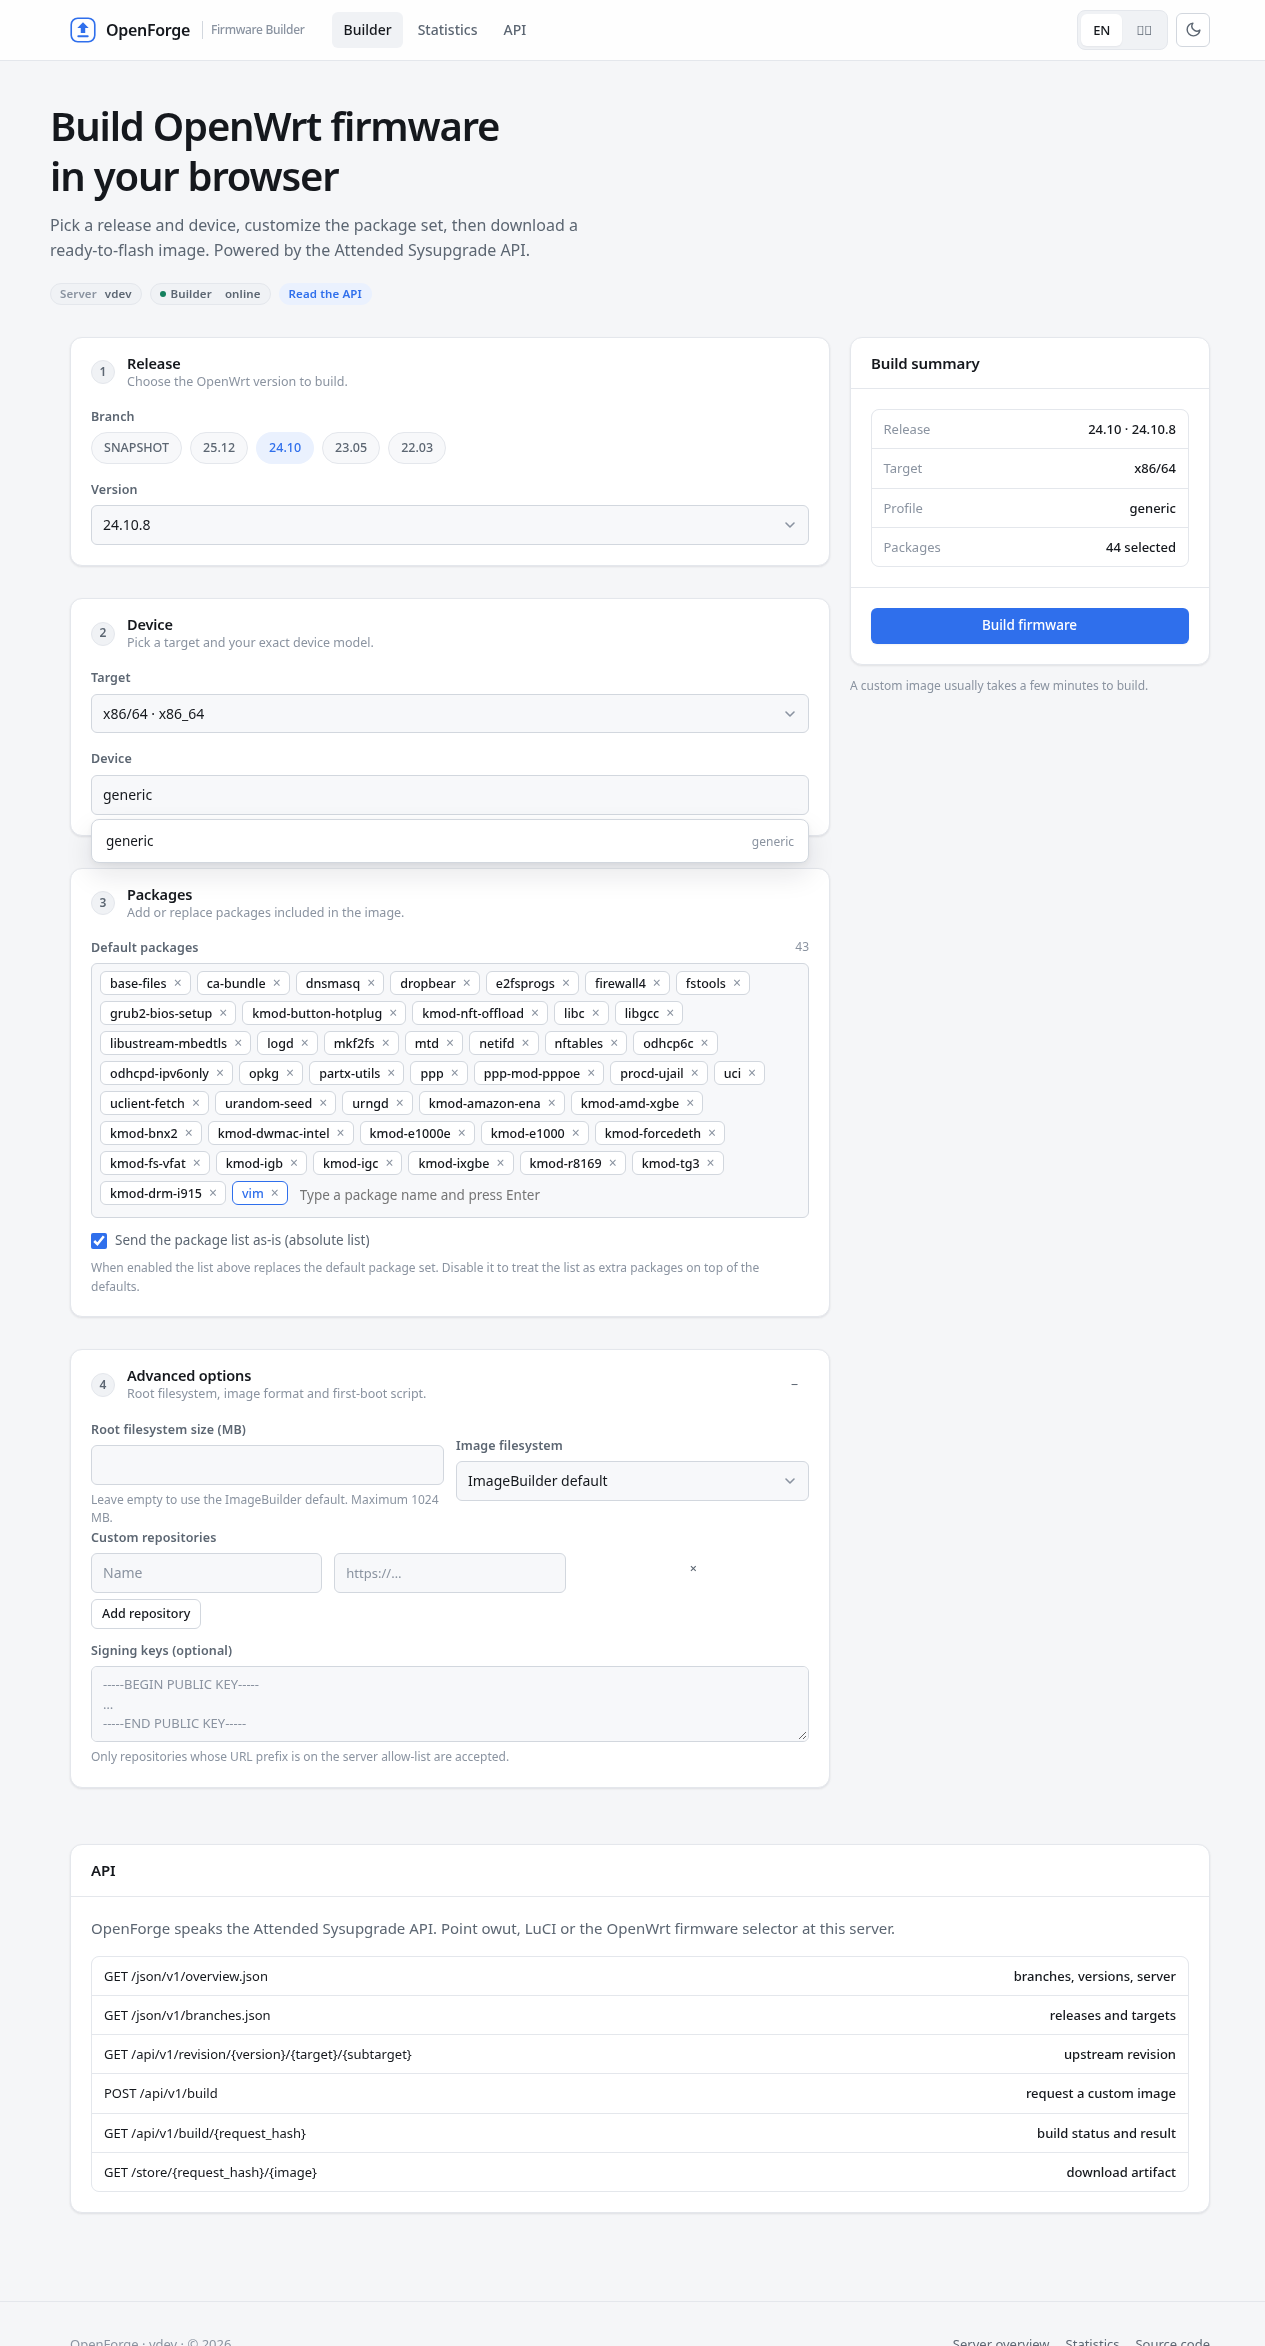
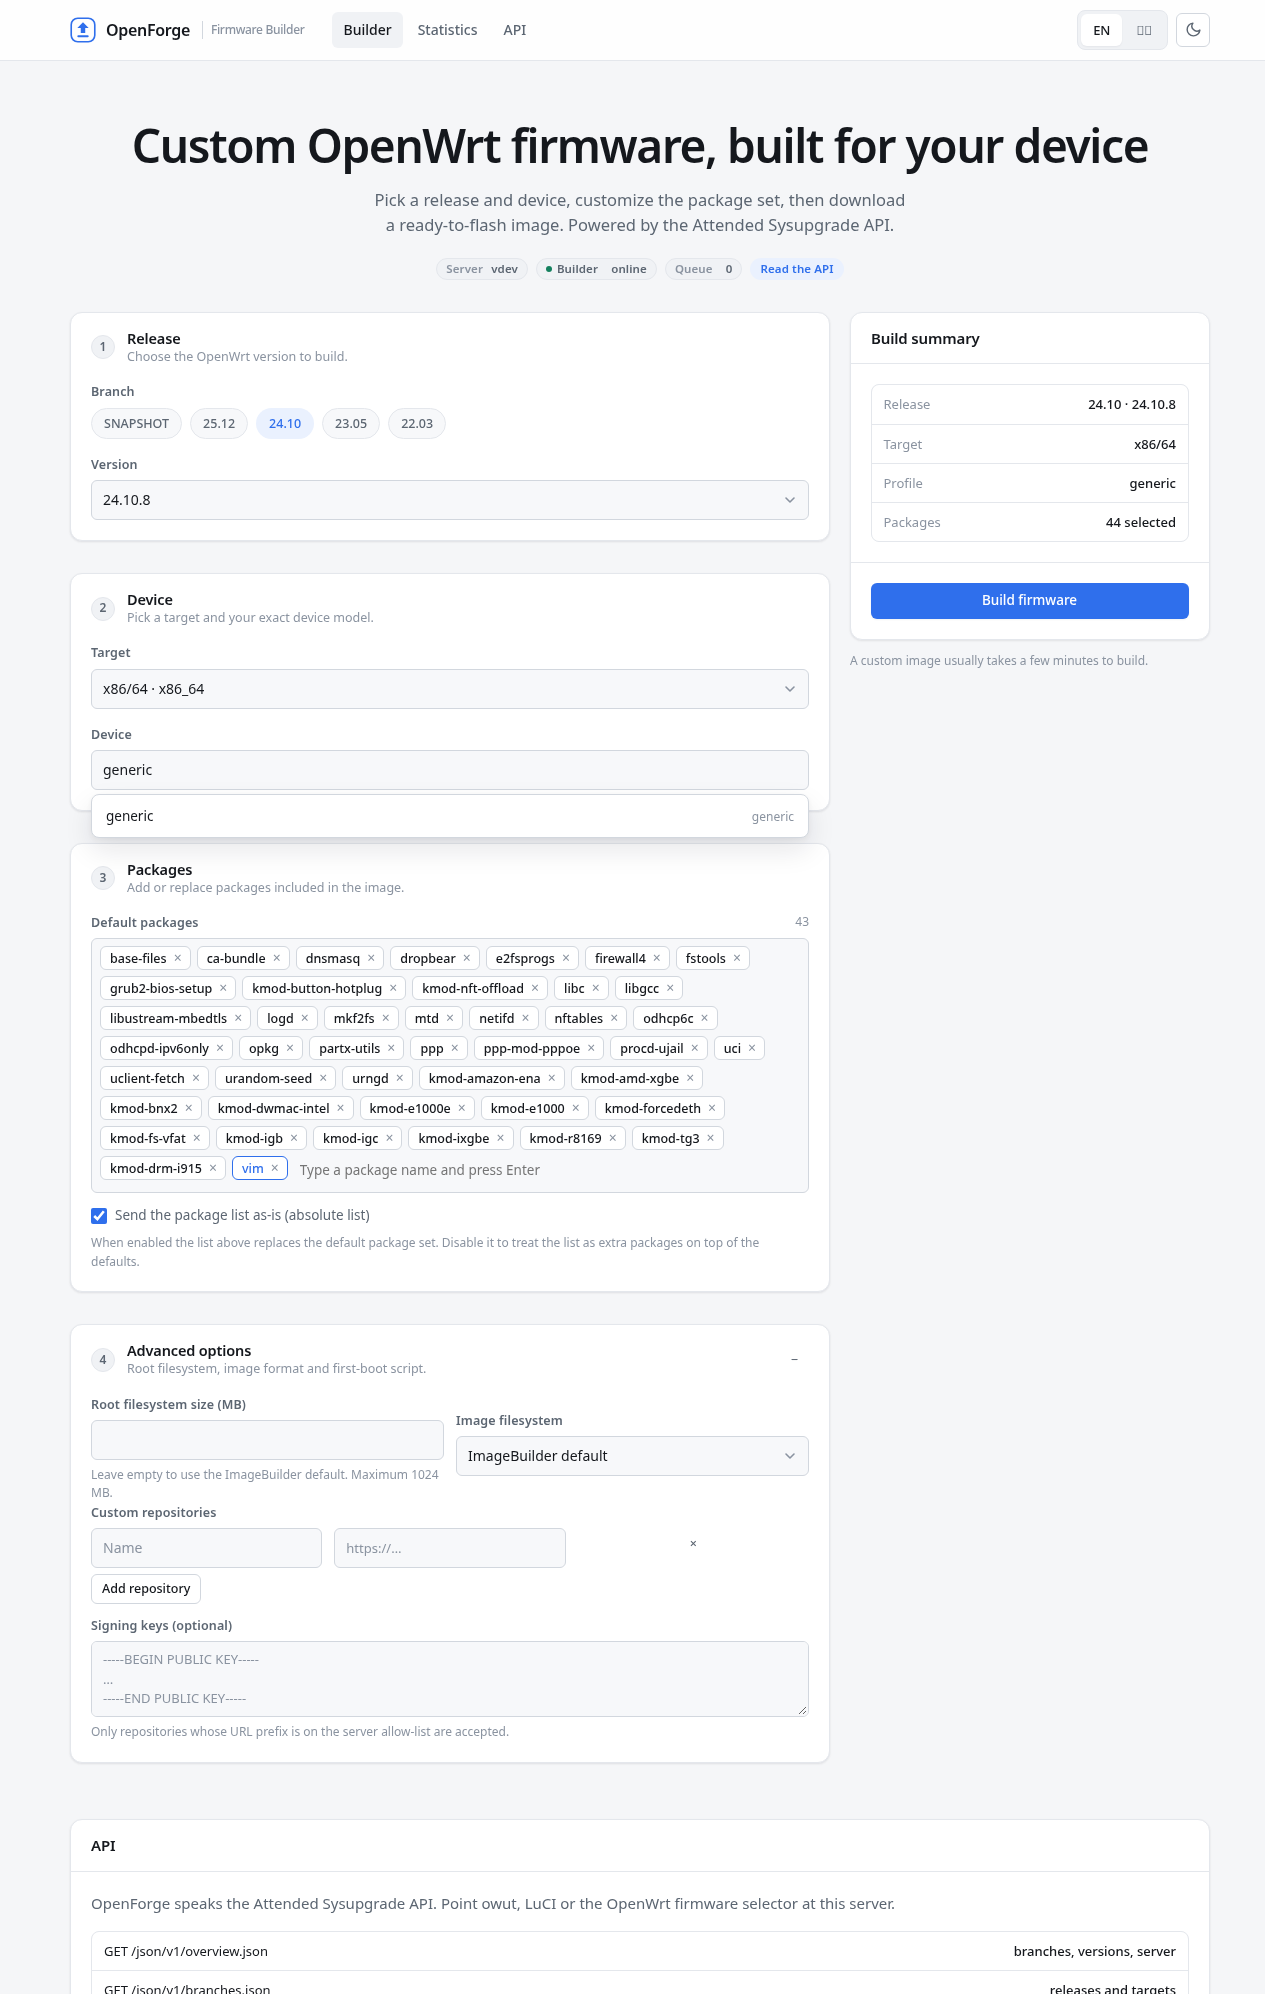
ui: center the hero and reword the headline
- Center the hero title, lead and status badges
- Drop the narrow max-width so the copy no longer wraps early
- New headline: "Custom OpenWrt firmware, built for your device"
- Refresh README screenshots

diff --git a/internal/web/static/js/i18n.js b/internal/web/static/js/i18n.js
@@ -10,7 +10,7 @@
       "nav.api": "API",
       "theme.toggle": "Toggle theme",
 
-      "hero.title": "Build OpenWrt firmware in your browser",
+      "hero.title": "Custom OpenWrt firmware, built for your device",
       "hero.lead": "Pick a release and device, customize the package set, then download a ready-to-flash image. Powered by the Attended Sysupgrade API.",
       "hero.server": "Server",
       "hero.builder": "Builder",
@@ -112,7 +112,7 @@
       "nav.api": "API",
       "theme.toggle": "切换主题",
 
-      "hero.title": "在浏览器中编译 OpenWrt 固件",
+      "hero.title": "为你的设备定制 OpenWrt 固件",
       "hero.lead": "选择版本与设备，定制软件包，然后下载可直接刷写的镜像。基于 Attended Sysupgrade API。",
       "hero.server": "服务端",
       "hero.builder": "编译后端",

diff --git a/internal/web/static/css/app.css b/internal/web/static/css/app.css
@@ -357,22 +357,25 @@ hr {
 .card-body + .card-body { border-top: 1px solid var(--border); }
 
 /* --- hero ----------------------------------------------------------------- */
-.hero { padding: var(--sp-10) 0 var(--sp-8); }
+.hero { padding: var(--sp-12) 0 var(--sp-8); text-align: center; }
 .hero h1 {
-  font-size: clamp(28px, 4vw, 40px);
+  font-size: clamp(30px, 4.6vw, 46px);
   letter-spacing: -0.03em;
-  max-width: 20ch;
+  margin: 0 auto;
+  text-wrap: balance;
 }
 .hero .lead {
-  margin-top: var(--sp-3);
+  margin: var(--sp-3) auto 0;
   color: var(--text-muted);
-  font-size: 16px;
-  max-width: 62ch;
+  font-size: 16.5px;
+  max-width: 74ch;
+  text-wrap: balance;
 }
 .hero-meta {
   margin-top: var(--sp-5);
   display: flex;
   flex-wrap: wrap;
+  justify-content: center;
   gap: var(--sp-2);
 }
 

diff --git a/internal/web/templates/index.html b/internal/web/templates/index.html
@@ -64,7 +64,7 @@
 
     <main>
       <section class="hero container">
-        <h1 data-i18n="hero.title">Build OpenWrt firmware in your browser</h1>
+        <h1 data-i18n="hero.title">Custom OpenWrt firmware, built for your device</h1>
         <p class="lead" data-i18n="hero.lead">
           Pick a release and device, customize the package set, then download a ready-to-flash
           image. Powered by the Attended Sysupgrade API.
